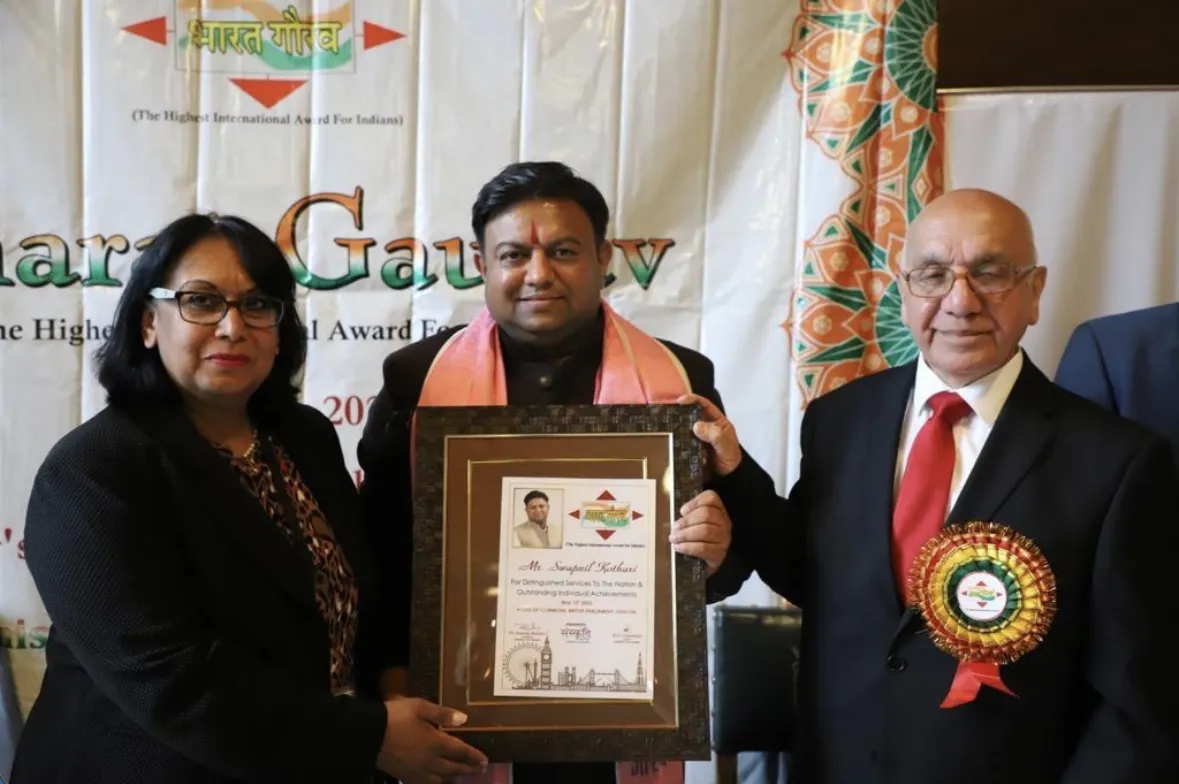
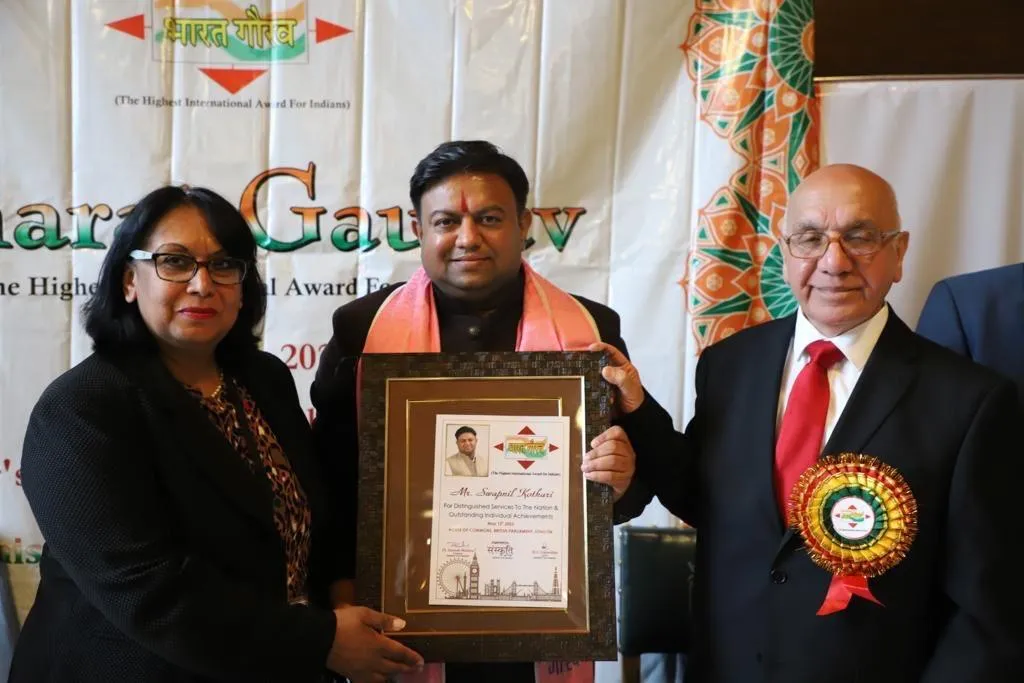
Swapnil Kothari pitch: cutout hero and original high-res photography
Replace blurred screenshot crops with original photos: UN Vienna cutout hero,
IIDL classroom, podium, Hungary, Indian Journalism Festival 2026, Dubai,
Patrika Jazbaa, hi-res Bharat Gaurav and South Asian Times.

Claude-Session: https://claude.ai/code/session_01EaEH35XAuHE5fdjGw2Tcxc

diff --git a/pitch/swapnil-kothari/index.html b/pitch/swapnil-kothari/index.html
@@ -72,35 +72,34 @@ h2{font-size:clamp(2.3rem,4.2vw,4.1rem);line-height:1.06}
 .drawer .x{position:absolute;top:18px;right:var(--pad);width:44px;height:44px;border:0;background:none;color:var(--ivory);font-size:28px;cursor:pointer}
 
 /* hero */
-.hero{position:relative;min-height:100vh;min-height:100svh;display:flex;align-items:flex-end;overflow:hidden;isolation:isolate}
-.hero-bg{position:absolute;inset:0;z-index:-2}
-.hero-bg picture,.video picture,.award picture{height:100%}
-.hero-bg img{width:100%;height:100%;object-fit:cover;filter:grayscale(.35) contrast(1.05);transform:scale(1.08);animation:slow 14s ease-out forwards}
-@keyframes slow{to{transform:scale(1)}}
-.hero:before{content:"";position:absolute;inset:0;z-index:-1;background:
-  linear-gradient(90deg,rgba(15,29,50,.97) 0%,rgba(15,29,50,.9) 38%,rgba(15,29,50,.55) 70%,rgba(15,29,50,.78) 100%),
-  linear-gradient(0deg,rgba(15,29,50,1) 0%,rgba(15,29,50,0) 45%)}
-.hero .wrap.main{width:100%;display:grid;grid-template-columns:minmax(0,1.25fr) minmax(0,.75fr);gap:56px;align-items:end;padding-top:140px;padding-bottom:64px}
-.hero h1{font-size:clamp(3.1rem,6.6vw,6.6rem);line-height:.98;letter-spacing:-.025em;margin:28px 0 30px}
+.hero{position:relative;min-height:100vh;min-height:100svh;overflow:hidden;isolation:isolate;
+  background:radial-gradient(60% 70% at 72% 58%,#1F3558 0%,rgba(15,29,50,0) 62%),linear-gradient(180deg,#0B1628 0%,#0F1D32 55%,#0F1D32 100%)}
+.hero .wm{position:absolute;right:-2vw;top:50%;transform:translateY(-52%);font:700 clamp(260px,38vw,620px)/.8 var(--serif);letter-spacing:-.06em;color:rgba(185,154,98,.055);z-index:-1;pointer-events:none;user-select:none}
+.hero .wrap.main{position:relative;min-height:100vh;min-height:100svh;display:grid;grid-template-columns:minmax(0,1.05fr) minmax(0,.95fr);gap:24px;align-items:center;padding-top:110px;padding-bottom:90px}
+.hero h1{font-size:clamp(3.1rem,6.2vw,6.4rem);line-height:.98;letter-spacing:-.025em;margin:28px 0 30px}
 .hero h1 em{font-style:italic;color:var(--gold-soft)}
 .hero .sub{font:300 clamp(1.05rem,1.4vw,1.25rem)/1.6 var(--sans);color:rgba(243,239,230,.82);max-width:30em;margin:0 0 40px}
 .cta-row{display:flex;flex-wrap:wrap;gap:14px}
-.portrait-card{position:relative;justify-self:end;width:100%;max-width:430px}
-.portrait-card figure{margin:0;position:relative;overflow:hidden;border-radius:2px;box-shadow:0 40px 80px -30px rgba(0,0,0,.7)}
-.portrait-card img{width:100%;aspect-ratio:4/4.3;object-fit:cover;object-position:42% 30%;filter:contrast(1.04) saturate(.95)}
-.portrait-card figure:after{content:"";position:absolute;inset:0;background:linear-gradient(0deg,rgba(15,29,50,.85) 0%,rgba(15,29,50,0) 40%)}
-.portrait-card figcaption{position:absolute;left:22px;right:22px;bottom:20px;z-index:2;display:flex;justify-content:space-between;align-items:flex-end;gap:12px}
-.portrait-card figcaption b{font:500 22px/1.1 var(--serif)}
-.portrait-card figcaption span{font:600 10.5px/1.3 var(--sans);letter-spacing:.18em;text-transform:uppercase;color:var(--gold-soft);text-align:right}
-.portrait-card:before{content:"";position:absolute;inset:-14px 14px 14px -14px;border:1px solid rgba(185,154,98,.45);border-radius:2px}
-.hero-meta{position:absolute;left:0;right:0;bottom:0}
+.cut{position:relative;align-self:end;justify-self:end;width:min(100%,640px);margin-bottom:-90px}
+.cut .ring{position:absolute;left:8%;right:2%;top:2%;aspect-ratio:1;border-radius:50%;border:1px solid rgba(185,154,98,.45)}
+.cut .ring:after{content:"";position:absolute;inset:7%;border-radius:50%;border:1px solid rgba(185,154,98,.18)}
+.cut .glow{position:absolute;left:12%;right:8%;top:8%;aspect-ratio:1;border-radius:50%;background:radial-gradient(circle,rgba(185,154,98,.26),rgba(185,154,98,0) 66%)}
+.cut picture{position:relative;z-index:1}
+.cut img{width:100%;height:auto;-webkit-mask-image:radial-gradient(ellipse 62% 78% at 50% 34%,#000 68%,transparent 100%);mask-image:radial-gradient(ellipse 62% 78% at 50% 34%,#000 68%,transparent 100%);filter:drop-shadow(0 30px 60px rgba(0,0,0,.45))}
+.cut .chip{position:absolute;z-index:2;left:-4%;top:58%;background:rgba(15,29,50,.78);backdrop-filter:blur(10px);-webkit-backdrop-filter:blur(10px);border:1px solid rgba(185,154,98,.35);padding:14px 18px;max-width:250px}
+.cut .chip b{display:block;font:500 17px/1.25 var(--serif)}
+.cut .chip span{display:block;margin-top:6px;font:600 10px/1.4 var(--sans);letter-spacing:.16em;text-transform:uppercase;color:var(--gold-soft)}
+.cut .sig{position:absolute;z-index:2;right:4%;top:16%;text-align:right;font:600 10.5px/1.5 var(--sans);letter-spacing:.2em;text-transform:uppercase;color:rgba(243,239,230,.7)}
+.cut .sig b{display:block;font:500 22px/1.1 var(--serif);letter-spacing:0;text-transform:none;color:var(--ivory);margin-bottom:6px}
+.hero-meta{position:absolute;left:0;right:0;bottom:0;z-index:3;background:linear-gradient(0deg,#0F1D32 40%,rgba(15,29,50,0))}
 .hero-foot{display:flex;justify-content:space-between;gap:20px;padding:18px 0 22px;border-top:1px solid rgba(185,154,98,.22);font:500 11.5px/1.4 var(--sans);letter-spacing:.12em;text-transform:uppercase;color:rgba(243,239,230,.6)}
-.hero .wrap.main{padding-bottom:120px}
 @media(max-width:900px){
-  .hero{align-items:flex-start}
-  .hero .wrap.main{grid-template-columns:1fr;gap:40px;padding-top:110px;padding-bottom:110px}
-  .portrait-card{justify-self:start;max-width:340px;order:-1}
-  .hero:before{background:linear-gradient(180deg,rgba(15,29,50,.75) 0%,rgba(15,29,50,.92) 45%,rgba(15,29,50,1) 100%)}
+  .hero .wrap.main{grid-template-columns:1fr;gap:10px;padding-top:96px;padding-bottom:80px;align-items:start}
+  .cut{order:-1;justify-self:center;width:min(92%,420px);margin-bottom:0}
+  .cut .chip{left:0;top:auto;bottom:6%;max-width:200px;padding:10px 14px}
+  .cut .chip b{font-size:14px}
+  .cut .sig{display:none}
+  .hero .wm{top:22%;font-size:70vw}
   .hero-foot span:nth-child(2){display:none}
 }
 
@@ -140,7 +139,7 @@ section{position:relative}
 .photo figcaption{margin-top:14px;font:500 12px/1.5 var(--sans);letter-spacing:.06em;color:var(--muted);display:flex;gap:12px}
 .photo figcaption:before{content:"";flex:none;width:28px;height:1px;background:var(--gold);margin-top:8px}
 .j-photo{position:sticky;top:110px}
-.j-photo img{aspect-ratio:4/5;object-position:58% 40%}
+.j-photo img{aspect-ratio:4/4.4;object-position:45% 40%}
 .j-photo .tag{position:absolute;left:-1px;top:28px;background:var(--red);color:#fff;font:600 10.5px/1 var(--sans);letter-spacing:.2em;text-transform:uppercase;padding:10px 14px}
 @media(max-width:900px){.journey{grid-template-columns:1fr}.j-photo{position:relative;top:0}}
 
@@ -153,8 +152,8 @@ section{position:relative}
 
 /* stage */
 .video{position:relative;display:block;overflow:hidden;border-radius:2px;aspect-ratio:16/7.2;background:#000}
-.video img{width:100%;height:100%;object-fit:cover;filter:grayscale(.2) brightness(.72);transition:transform 1.2s cubic-bezier(.2,.7,.2,1),filter .6s}
-.video:hover img{transform:scale(1.03);filter:grayscale(0) brightness(.8)}
+.video img{width:100%;height:100%;object-fit:cover;object-position:50% 30%;filter:brightness(.78);transition:transform 1.2s cubic-bezier(.2,.7,.2,1),filter .6s}
+.video:hover img{transform:scale(1.03);filter:brightness(.86)}
 .video .play{position:absolute;left:50%;top:50%;width:96px;height:96px;margin:-48px 0 0 -48px;border-radius:50%;background:rgba(243,239,230,.12);backdrop-filter:blur(10px);-webkit-backdrop-filter:blur(10px);box-shadow:inset 0 0 0 1px rgba(243,239,230,.55);display:grid;place-items:center;transition:transform .4s,background .4s}
 .video:hover .play{transform:scale(1.08);background:var(--red);box-shadow:none}
 .video .cap{position:absolute;left:0;right:0;bottom:0;padding:28px 32px;background:linear-gradient(0deg,rgba(15,29,50,.95),transparent);display:flex;justify-content:space-between;align-items:flex-end;gap:20px}
@@ -170,6 +169,16 @@ section{position:relative}
 .ev p{margin:4px 0 0;font-size:14px}
 .ev .city{font:600 10.5px/1 var(--sans);letter-spacing:.18em;text-transform:uppercase;color:rgba(243,239,230,.55);text-align:right}
 @media(max-width:700px){.ev{grid-template-columns:56px 1fr}.ev .city{grid-column:2;text-align:left}}
+.video .vtag{position:absolute;left:32px;top:26px;font:600 10.5px/1 var(--sans);letter-spacing:.2em;text-transform:uppercase;color:var(--ivory);background:var(--red);padding:9px 12px}
+.moments{display:grid;grid-template-columns:minmax(0,.8fr) minmax(0,1.2fr);gap:28px;margin-top:72px;padding-top:56px;border-top:1px solid rgba(185,154,98,.22)}
+.moments .m{margin:0;position:relative;overflow:hidden;border-radius:2px;background:#000}
+.moments img{width:100%;height:100%;aspect-ratio:4/3.3;object-fit:cover;display:block;transition:transform 1.2s cubic-bezier(.2,.7,.2,1)}
+.moments .m:first-child img{object-position:50% 22%}
+.moments .m:hover img{transform:scale(1.03)}
+.moments figcaption{position:absolute;left:0;right:0;bottom:0;padding:70px 26px 24px;background:linear-gradient(0deg,rgba(11,22,40,.94),rgba(11,22,40,0))}
+.moments figcaption span{display:block;font:600 10.5px/1.4 var(--sans);letter-spacing:.18em;text-transform:uppercase;color:var(--gold-soft);margin-bottom:8px}
+.moments figcaption b{font:500 clamp(1.05rem,1.5vw,1.3rem)/1.35 var(--serif);color:var(--ivory)}
+@media(max-width:800px){.moments{grid-template-columns:1fr;margin-top:48px;padding-top:40px}.video .vtag{left:16px;top:16px}}
 .stage-side{display:grid;gap:28px}
 .stage-side .photo img{aspect-ratio:16/9;object-position:50% 30%}
 .stage-side .photo figcaption{color:rgba(243,239,230,.55)}
@@ -199,7 +208,7 @@ section{position:relative}
 .ask h2 i{display:inline-block;width:.16em;height:.16em;background:var(--red);border-radius:50%;margin-left:.04em}
 .ask .lede{font:300 20px/1.55 var(--sans);color:rgba(243,239,230,.85);margin:0 0 18px}
 .ask .photo{margin-top:40px}
-.ask .photo img{aspect-ratio:16/10.5;object-position:60% 35%}
+.ask .photo img{aspect-ratio:4/3.6;object-position:50% 52%}
 .ask .photo figcaption{color:rgba(243,239,230,.55)}
 .qs{display:grid;gap:12px;margin-bottom:40px}
 .q{display:flex;gap:18px;align-items:center;padding:20px 22px;background:var(--navy-2);border:1px solid rgba(185,154,98,.16);border-radius:2px;transition:border-color .3s,transform .3s}
@@ -295,7 +304,7 @@ footer{background:var(--navy);padding:72px 0 120px;border-top:1px solid rgba(185
 <main id="top">
 
 <section class="hero grain">
-  <div class="hero-bg"><picture><source srcset="assets/un-vienna-hall.webp" type="image/webp"><img src="assets/un-vienna-hall.jpg" alt="Conference hall at the United Nations Vienna International Centre during the World Peace Council conference, 2015" fetchpriority="high"></picture></div>
+  <span class="wm" aria-hidden="true">SK.</span>
   <div class="wrap main">
     <div>
       <div class="eyebrow rv">Educator · Institution builder · Public thinker</div>
@@ -306,14 +315,13 @@ footer{background:var(--navy);padding:72px 0 120px;border-top:1px solid rgba(185
         <a class="btn btn-line" href="#contact">Invite Swapnil to speak</a>
       </div>
     </div>
-    <div class="portrait-card rv d2">
-      <figure>
-        <picture><source srcset="assets/portrait.webp" type="image/webp"><img src="assets/portrait.jpg" alt="Portrait of CA Swapnil Kothari in a black bandhgala with a red pocket square" width="600" height="438"></picture>
-        <figcaption><b>CA Swapnil Kothari</b><span>Chancellor<br>Renaissance University</span></figcaption>
-      </figure>
+    <div class="cut rv d2">
+      <span class="glow" aria-hidden="true"></span><span class="ring" aria-hidden="true"></span>
+      <picture><source srcset="assets/hero-cutout.webp" type="image/webp"><img src="assets/hero-cutout.png" alt="CA Swapnil Kothari in a black bandhgala with a red pocket square, speaking at the UN Vienna International Centre" width="656" height="702" fetchpriority="high"></picture>
+            <div class="chip"><b>UN Vienna International Centre</b><span>World Peace Council conference</span></div>
     </div>
   </div>
-  <div class="hero-meta"><div class="wrap"><div class="hero-foot"><span>Indore · India</span><span>World Peace Council conference · UN Vienna International Centre · 2015</span><span>Scroll ↓</span></div></div></div>
+  <div class="hero-meta"><div class="wrap"><div class="hero-foot"><span>Indore · India</span><span>Vienna · Prague · Hungary · New York · London · Dubai</span><span>Scroll ↓</span></div></div></div>
 </section>
 
 <div class="proof">
@@ -339,9 +347,9 @@ footer{background:var(--navy);padding:72px 0 120px;border-top:1px solid rgba(185
       <p class="rv" style="margin-top:36px"><a class="lnk" href="#stage" style="color:var(--navy)">Continue to the global stage →</a></p>
     </div>
     <figure class="photo j-photo rv d1">
-      <picture><source srcset="assets/students.webp" type="image/webp"><img src="assets/students.jpg" alt="Swapnil Kothari speaking to students with a microphone at Renaissance University" width="778" height="468"></picture>
-      <span class="tag">For my students</span>
-      <figcaption>On stage at Renaissance University, Indore</figcaption>
+      <picture><source srcset="assets/teaching.webp" type="image/webp"><img src="assets/teaching.jpg" alt="Swapnil Kothari in conversation with postgraduate students in a seminar room" width="1169" height="1066"></picture>
+      <span class="tag">In the classroom</span>
+      <figcaption>In conversation with students of the IIDL postgraduate programme in leadership, politics and governance</figcaption>
     </figure>
   </div>
 </section>
@@ -360,10 +368,11 @@ footer{background:var(--navy);padding:72px 0 120px;border-top:1px solid rgba(185
       <div><span class="eyebrow rv">The global stage</span><h2 class="rv d1" style="margin-top:24px">A wider conversation about peace, values and the future.</h2></div>
       <p class="rv d2">From educational forums to international dialogue, his public engagements have explored the role of values, learning and human connection in a changing world, including World Peace Council programmes in Vienna and other European settings.</p>
     </div>
-    <a class="video rv" href="https://www.youtube.com/results?search_query=Swapnil+Kothari+World+Peace+Conference+United+Nations" target="_blank" rel="noopener" aria-label="Watch: addressing the World Peace Conference at the UN Vienna International Centre">
-      <picture><source srcset="assets/un-vienna-hall.webp" type="image/webp"><img src="assets/un-vienna-hall.jpg" alt="" loading="lazy"></picture>
+    <a class="video rv" href="https://www.youtube.com/results?search_query=Swapnil+Kothari+World+Peace+Conference+United+Nations" target="_blank" rel="noopener" aria-label="Watch his World Peace Conference address at the UN Vienna International Centre (opens YouTube)">
+      <picture><source srcset="assets/hungary.webp" type="image/webp"><img src="assets/hungary.jpg" alt="Swapnil Kothari addressing an audience in Hungary" loading="lazy" width="960" height="460"></picture>
       <span class="play"><svg width="26" height="26" viewBox="0 0 24 24" aria-hidden="true"><path d="M8 5v14l11-7z" fill="#F3EFE6"/></svg></span>
-      <span class="cap"><b>Addressing the World Peace Conference: “Yoga – A Path to Non-Violence and World Peace”</b><span>UN Vienna International Centre · 2015 · 17:59</span></span>
+      <span class="vtag">Watch the UN Vienna address ↗</span>
+      <span class="cap"><b>Speaking at “40 Years of Yoga in Daily Life”, a peace and values programme in Hungary</b><span>Hungary · Europe</span></span>
     </a>
     <div class="stage-grid">
       <div class="events">
@@ -375,14 +384,24 @@ footer{background:var(--navy);padding:72px 0 120px;border-top:1px solid rgba(185
       </div>
       <div class="stage-side">
         <figure class="photo rv d1">
-          <picture><source srcset="assets/podium.webp" type="image/webp"><img src="assets/podium.jpg" alt="Swapnil Kothari speaking at a podium during an international conference" loading="lazy" width="810" height="434"></picture>
-          <figcaption>Speaking on spirituality, non-violence and world peace</figcaption>
+          <picture><source srcset="assets/genz-festival.webp" type="image/webp"><img src="assets/genz-festival.jpg" alt="Swapnil Kothari holding the Guest of Honour plaque at the Indian Journalism Festival 2026" loading="lazy" width="1280" height="854"></picture>
+          <figcaption>Guest of Honour, Gen-Z Dialogue · Indian Journalism Festival 2026, Indore</figcaption>
         </figure>
         <div class="award rv d2">
-          <picture><source srcset="assets/bharat-gaurav.webp" type="image/webp"><img src="assets/bharat-gaurav.jpg" alt="Swapnil Kothari receiving the Bharat Gaurav Award certificate in London" loading="lazy" width="1179" height="784"></picture>
+          <picture><source srcset="assets/bharat-gaurav.webp" type="image/webp"><img src="assets/bharat-gaurav.jpg" alt="Swapnil Kothari receiving the Bharat Gaurav Award certificate in London" loading="lazy" width="1024" height="683"></picture>
           <div><span class="eyebrow">Recognition</span><h3>Bharat Gaurav Award 2023</h3><p>Presented at the House of Commons, London, alongside Indians recognised for contributions in their fields.</p></div>
         </div>
       </div>
+    </div>
+    <div class="moments">
+      <figure class="m rv">
+        <picture><source srcset="assets/dubai.webp" type="image/webp"><img src="assets/dubai.jpg" alt="Swapnil Kothari with Mohamed Al Banna in Dubai" loading="lazy" width="1086" height="1198"></picture>
+        <figcaption><span>Dubai · November 2026</span><b>Conversations in Dubai with Mohamed Al Banna, as Renaissance looks to the Gulf.</b></figcaption>
+      </figure>
+      <figure class="m rv d1">
+        <picture><source srcset="assets/public-life.webp" type="image/webp"><img src="assets/public-life.jpg" alt="Lighting the ceremonial lamp at the Patrika Jazbaa Police Awards in Indore" loading="lazy" width="1280" height="853"></picture>
+        <figcaption><span>Indore · October 2026</span><b>Lighting the lamp at the Patrika Jazbaa Police Awards, honouring service to the city.</b></figcaption>
+      </figure>
     </div>
   </div>
 </section>
@@ -413,7 +432,7 @@ footer{background:var(--navy);padding:72px 0 120px;border-top:1px solid rgba(185
       <p class="lede rv d2">Real questions. Practical perspective. Lessons that stay with you.</p>
       <p class="rv d2">Students rarely need another lecture. They need a thoughtful answer to the decision in front of them. Ask Sir is a space for questions about careers, money, confidence, setbacks, learning and the choices that shape a life.</p>
       <figure class="photo rv">
-        <picture><source srcset="assets/students.webp" type="image/webp"><img src="assets/students.jpg" alt="" loading="lazy"></picture>
+        <picture><source srcset="assets/podium-stage.webp" type="image/webp"><img src="assets/podium-stage.jpg" alt="Swapnil Kothari speaking at a flower-decked podium" loading="lazy" width="1066" height="1600"></picture>
         <figcaption>Short answers, in his own voice, every week</figcaption>
       </figure>
     </div>
@@ -442,7 +461,7 @@ footer{background:var(--navy);padding:72px 0 120px;border-top:1px solid rgba(185
     </div>
     <div class="media">
       <figure class="clip rv">
-        <picture><source srcset="assets/south-asian-times.webp" type="image/webp"><img src="assets/south-asian-times.jpg" alt="The South Asian Times newspaper page: Swapnil Kothari, a teacher by heart, entrepreneur by destiny" loading="lazy" width="847" height="1170"></picture>
+        <picture><source srcset="assets/south-asian-times.webp" type="image/webp"><img src="assets/south-asian-times.jpg" alt="The South Asian Times newspaper page: Swapnil Kothari, a teacher by heart, entrepreneur by destiny" loading="lazy" width="692" height="960"></picture>
         <figcaption>The South Asian Times, New York · Personality · March 10–16, 2018</figcaption>
       </figure>
       <div class="mcards">

diff --git a/pitch/swapnil-kothari/brand/index.html b/pitch/swapnil-kothari/brand/index.html
@@ -181,13 +181,13 @@ footer a{color:var(--gold-soft)}
     <div class="sh"><span class="eyebrow">05 · Social</span><h2>The same voice on every feed.</h2><p>A LinkedIn banner that leads with the idea, a “For my students” post frame that keeps his current series but lifts the craft, and an Ask Sir reel cover.</p></div>
     <div class="banner">
       <div class="bt"><span class="e">EDUCATOR · INSTITUTION BUILDER · PUBLIC THINKER</span><h3>An Indian educator<br>on a <em>global stage.</em></h3><span class="c">Indore · Vienna · Prague · New York · London</span></div>
-      <div class="bi"><img src="../assets/portrait.jpg" alt="Portrait of CA Swapnil Kothari"></div>
+      <div class="bi"><img src="../assets/genz-festival.jpg" alt="Portrait of CA Swapnil Kothari"></div>
     </div>
     <p class="cap">LinkedIn banner, 1584 × 396</p>
     <div class="apps" style="margin-top:44px">
-      <div><div class="post"><img src="../assets/students.jpg" alt="Swapnil Kothari speaking to students"><div class="pt"><span class="e">FOR MY STUDENTS · 04</span><h3>Character builds what <em>marks never can.</em></h3><div class="f"><span>FROM RENAISSANCE<br>UNIVERSITY'S STAGE</span><span class="mono">SK<i></i></span></div></div></div><p class="cap">“For my students” carousel cover, 1080 × 1350</p></div>
+      <div><div class="post"><img src="../assets/teaching.jpg" alt="Swapnil Kothari in conversation with students"><div class="pt"><span class="e">FOR MY STUDENTS · 04</span><h3>Character builds what <em>marks never can.</em></h3><div class="f"><span>FROM RENAISSANCE<br>UNIVERSITY'S STAGE</span><span class="mono">SK<i></i></span></div></div></div><p class="cap">“For my students” carousel cover, 1080 × 1350</p></div>
       <div><div class="post" style="background:var(--ivory);color:var(--navy)"><div class="pt" style="background:var(--ivory)"><span class="e" style="color:var(--red)">FOR MY STUDENTS · 05</span><h3 style="font-size:clamp(26px,3vw,40px)">Pehli salary?<br><em style="color:var(--red)">Pehle khud ko pay karo.</em></h3><div style="margin-top:10%;display:grid;gap:10px;font:500 13px/1 var(--sans)"><div style="display:flex;justify-content:space-between;border-bottom:1px solid rgba(15,29,50,.15);padding-bottom:10px"><span>Save / SIP</span><b>20%</b></div><div style="display:flex;justify-content:space-between;border-bottom:1px solid rgba(15,29,50,.15);padding-bottom:10px"><span>Emergency fund</span><b>10%</b></div><div style="display:flex;justify-content:space-between;border-bottom:1px solid rgba(15,29,50,.15);padding-bottom:10px"><span>Skills &amp; courses</span><b>5%</b></div></div><div class="f"><span style="color:var(--muted)">CA SWAPNIL KOTHARI</span><span class="mono" style="color:var(--navy)">SK<i></i></span></div></div></div><p class="cap">Money series, restyled from his existing post</p></div>
-      <div><div class="reel"><img src="../assets/students.jpg" alt=""><div class="rt"><span class="e">FOR THE NEXT GENERATION</span><h3>Ask Sir<i></i></h3><p>What should your first salary teach you?</p></div></div><p class="cap">Ask Sir reel cover, 1080 × 1920</p></div>
+      <div><div class="reel"><img src="../assets/podium-stage.jpg" alt=""><div class="rt"><span class="e">FOR THE NEXT GENERATION</span><h3>Ask Sir<i></i></h3><p>What should your first salary teach you?</p></div></div><p class="cap">Ask Sir reel cover, 1080 × 1920</p></div>
     </div>
   </div>
 </section>
